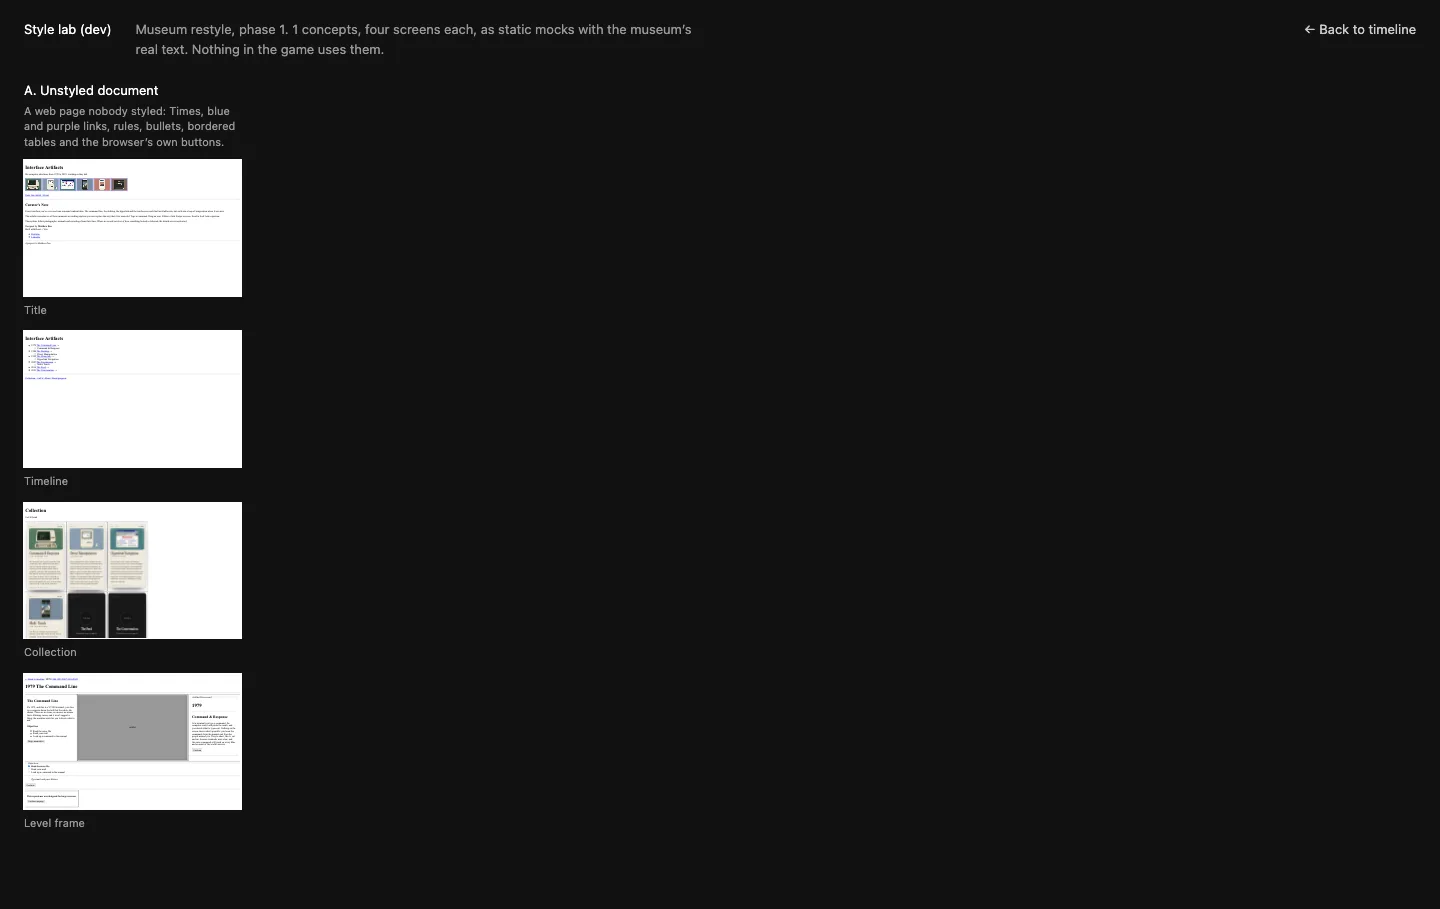
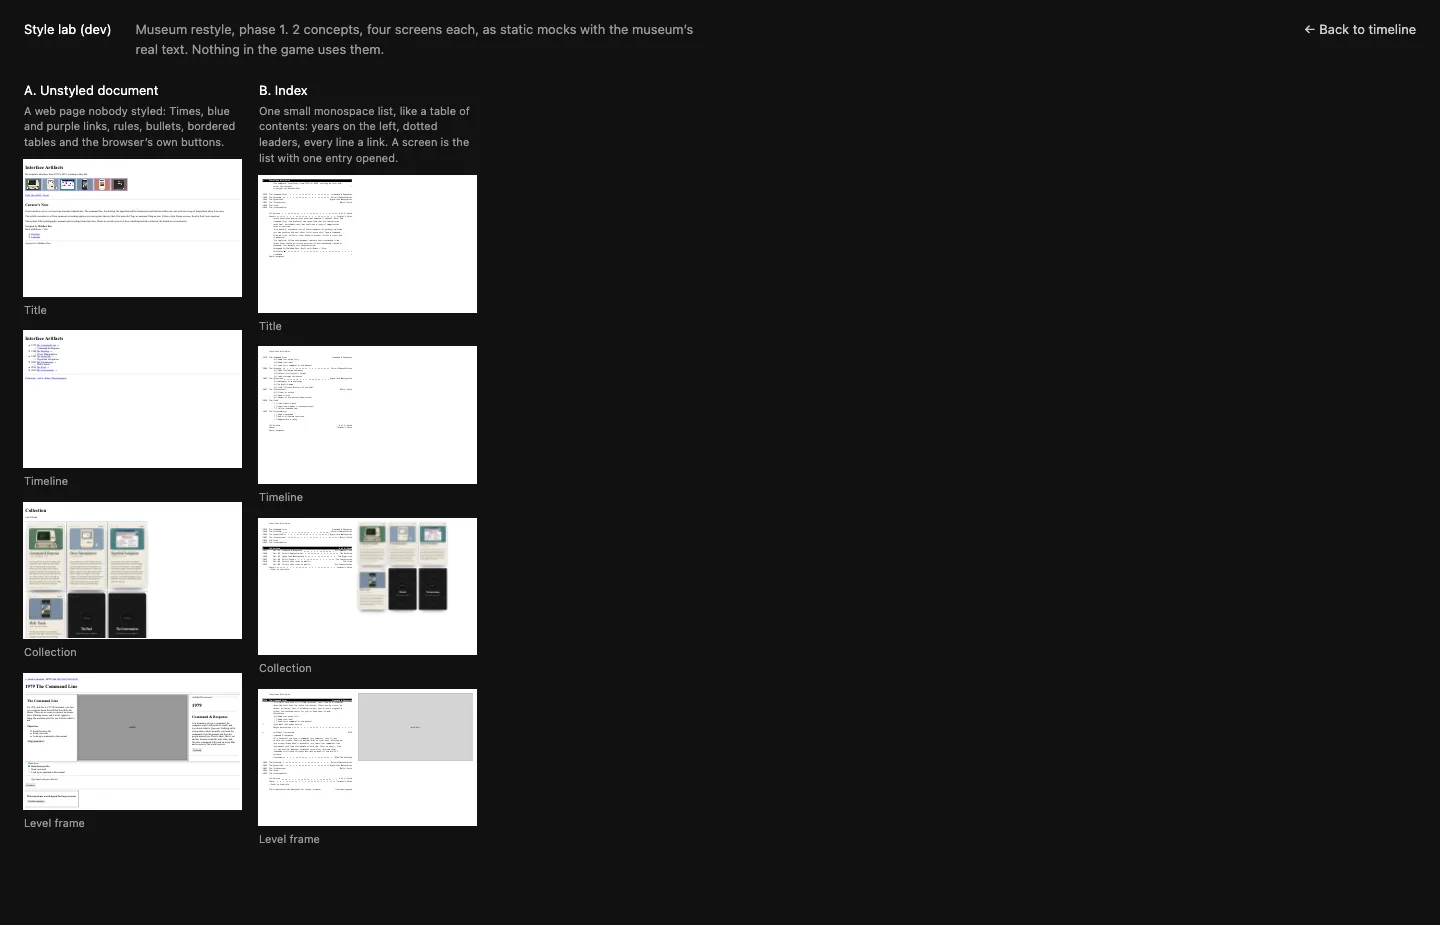
Style lab: concept B, index (one monospace list, entries open in place)

Changed region(s): [[0.0, 0.0924, 0.3438, 0.9241], [0.0938, 0.0308, 0.4688, 0.0616]]

diff --git a/src/pages/styleLab/B_Index.jsx b/src/pages/styleLab/B_Index.jsx
@@ -1,0 +1,139 @@
+// src/pages/styleLab/B_Index.jsx
+//
+// Concept B, "Index": the whole museum is one small monospace list, like a
+// table of contents. Years down the left, dotted leaders across, every line
+// a link. There are no pages: a "screen" is the same list with one entry
+// opened in place. The only rectangles are the artifact and the cards.
+import s from './B_Index.module.css'
+import { ROOMS, TITLE, ABOUT, WORDS, MOCK, isFound, foundLine, pad } from './content'
+import { CurrentCard } from './CurrentCard'
+
+// One line of the list: [mark or year] text ......... meta
+function Row({ mark = '', text, meta, href, onClick, current, sub, external }) {
+  const inner = (
+    <>
+      <span className={s.mark}>{mark}</span>
+      <span className={s.text}>{text}</span>
+      <span className={s.lead} aria-hidden="true" />
+      <span className={s.meta}>{meta}</span>
+    </>
+  )
+  const cls = `${s.row} ${sub ? s.sub : ''} ${current ? s.current : ''}`
+  if (onClick) return <button type="button" className={cls} onClick={onClick}>{inner}</button>
+  if (!href) return <div className={cls}>{inner}</div>
+  return (
+    <a className={cls} href={href} aria-current={current ? 'page' : undefined} {...(external ? { target: '_blank', rel: 'noopener noreferrer' } : {})}>
+      {inner}
+    </a>
+  )
+}
+
+const Note = ({ children, mark = '' }) => (
+  <div className={`${s.row} ${s.sub} ${s.note}`}>
+    <span className={s.mark}>{mark}</span>
+    <p className={s.noteText}>{children}</p>
+  </div>
+)
+
+function Standin({ room, className }) {
+  return (
+    <div className={`${s.standin} ${className}`} style={{ aspectRatio: `${room.frame[0]} / ${room.frame[1]}`, maxWidth: room.frame[0] }}>
+      artifact
+    </div>
+  )
+}
+
+function Cards({ art, go, className }) {
+  return (
+    <div className={`${s.cards} ${className}`}>
+      {ROOMS.map(r => <CurrentCard key={r.level} room={r} art={art} zoom={0.62} onOpen={() => go('level', r.level)} />)}
+    </div>
+  )
+}
+
+export default function Index({ screen, level, href, go, art }) {
+  const room = screen === 'level' ? ROOMS[level] : null
+  const next = room && ROOMS[room.level + 1]
+
+  return (
+    <div className={s.page}>
+      <div className={s.list}>
+        {/* ── The title ─────────────────────────────────────────── */}
+        <Row text={TITLE.name} href={href('title')} current={screen === 'title'} mark={screen === 'title' ? '>' : ''} />
+        {screen === 'title' && (
+          <>
+            <Note>{TITLE.subtitle}</Note>
+            <Row sub text={TITLE.enter} meta="→" href={href('timeline')} />
+            <Note>{TITLE.by}</Note>
+          </>
+        )}
+
+        {/* ── The six rooms ─────────────────────────────────────── */}
+        <div className={s.gap} />
+        {ROOMS.map(r => {
+          const open = room?.level === r.level
+          return (
+            <div key={r.level}>
+              <Row mark={r.year} text={r.title} meta={isFound(r.level) ? r.name : ''} href={href('level', r.level)} current={open} />
+              {screen === 'timeline' && r.objectives.map(o => (
+                <Row key={o} sub text={`${isFound(r.level) ? '[x]' : '[ ]'} ${o}`} href={href('level', r.level)} />
+              ))}
+              {open && (
+                <>
+                  <Note>{r.intro}</Note>
+                  <Standin room={r} className={s.inline} />
+                  <Row sub text={WORDS.objectives} />
+                  {r.objectives.map((o, i) => (
+                    <Row key={o} sub text={`${MOCK.done.includes(i) ? '[x]' : '[ ]'} ${o}`} />
+                  ))}
+                  <Note mark="?"><i>{r.hints[MOCK.hintFor]}</i></Note>
+                  <Row sub text={WORDS.begin} meta="→" onClick={() => {}} />
+                  <div className={s.gap} />
+                  <Row sub mark="*" text={WORDS.discovered} meta={r.year} />
+                  <Row sub text={r.name} />
+                  <Note>{r.description}</Note>
+                  <Row sub text={WORDS.cont} meta={next ? `${next.year} ${next.title}` : WORDS.backPlain} href={next ? href('level', next.level) : href('timeline')} />
+                  <div className={s.gap} />
+                </>
+              )}
+            </div>
+          )
+        })}
+
+        {/* ── Collection, About and the rest ────────────────────── */}
+        <div className={s.gap} />
+        <Row text={WORDS.collection} meta={foundLine} href={href('collection')} current={screen === 'collection'} mark={screen === 'collection' ? '>' : ''} />
+        {screen === 'collection' && (
+          <>
+            {ROOMS.map(r => (
+              <Row key={r.level} sub mark={r.year} text={`No. ${pad(r.level + 1)}  ${isFound(r.level) ? r.name : WORDS.unfound}`} meta={r.title} href={href('level', r.level)} />
+            ))}
+            <Cards art={art} go={go} className={s.inline} />
+          </>
+        )}
+        <Row text={TITLE.about} meta={ABOUT.label} href={href('title')} />
+        {screen === 'title' && (
+          <>
+            {ABOUT.paragraphs.map(p => <Note key={p}>{p}</Note>)}
+            <Note>{ABOUT.designedBy} {ABOUT.name}. {ABOUT.built}</Note>
+            {ABOUT.links.map(l => <Row key={l.label} sub text={l.label} meta="↗" href={l.href} external />)}
+          </>
+        )}
+        {(screen === 'timeline' || screen === 'title') && <Row text={WORDS.reset} onClick={() => {}} />}
+        {(screen === 'collection' || screen === 'level') && <Row text={WORDS.back} href={href('timeline')} />}
+        {screen === 'level' && (
+          <>
+            <div className={s.gap} />
+            <Row text={WORDS.smallScreen} meta={WORDS.smallScreenGo} onClick={() => {}} />
+          </>
+        )}
+      </div>
+
+      {/* The right-hand side: nothing, the artifact, or the cards */}
+      <div className={s.plate}>
+        {room && <Standin room={room} className={s.wide} />}
+        {screen === 'collection' && <Cards art={art} go={go} className={s.wide} />}
+      </div>
+    </div>
+  )
+}

diff --git a/src/pages/styleLab/B_Index.module.css b/src/pages/styleLab/B_Index.module.css
@@ -1,0 +1,91 @@
+/* src/pages/styleLab/B_Index.module.css
+ * Concept B, "Index": one size of monospace, black on white, no boxes and
+ * no rules. Hierarchy is the indent; emphasis is a row turning black. */
+
+.page {
+  box-sizing: border-box;
+  min-height: 100cqh;
+  padding: 22px 24px 64px;
+  display: grid;
+  grid-template-columns: minmax(0, 82ch) minmax(0, 1fr);
+  gap: 0 6ch;
+  align-items: start;
+  background: #fff;
+  color: #000;
+  font: 12px/18px ui-monospace, Menlo, Monaco, 'Courier New', monospace;
+  --lab-focus: #000;
+}
+
+.list { min-width: 0; }
+.gap { height: 18px; }
+
+/* ── A line ─────────────────────────────────────────────────────────── */
+.row {
+  display: grid;
+  grid-template-columns: 6ch auto minmax(2ch, 1fr) auto;
+  width: 100%;
+  padding: 0;
+  border: none;
+  background: none;
+  color: inherit;
+  font: inherit;
+  text-align: left;
+  text-decoration: none;
+  cursor: default;
+}
+a.row, button.row { cursor: pointer; }
+.sub .text, .sub .noteText { padding-left: 4ch; }
+.text { min-width: 0; white-space: pre-wrap; }
+.meta { text-align: right; }
+.lead {
+  height: 12px;
+  margin: 0 1ch;
+  border-bottom: 1px dotted currentColor;
+}
+/* No leader to nowhere */
+.meta:empty { display: none; }
+.row:has(.meta:empty) .lead { visibility: hidden; }
+
+a.row:hover, button.row:hover, .current { background: #000; color: #fff; }
+a.row:focus-visible, button.row:focus-visible { outline: 2px solid #000; outline-offset: 2px; background: #000; color: #fff; }
+
+.note { grid-template-columns: 6ch minmax(0, 1fr); }
+.noteText { max-width: 68ch; margin: 0; }
+
+/* ── The artifact and the cards ─────────────────────────────────────── */
+.plate { position: sticky; top: 22px; min-width: 0; }
+.standin {
+  width: 100%;
+  max-height: calc(100cqh - 44px);
+  display: flex;
+  align-items: center;
+  justify-content: center;
+  border: 1px solid #000;
+  background: #d4d4d4;
+}
+.cards { display: grid; grid-template-columns: repeat(3, max-content); gap: 18px 2ch; }
+.inline { display: none; }
+
+/* Narrower than the list and the artifact side by side: one column, and
+   the artifact and the cards sit in the list where their entry opens */
+@container lab (max-width: 1100px) {
+  .page { grid-template-columns: minmax(0, 82ch); }
+  .plate { display: none; }
+  .inline { display: flex; margin: 18px 0 18px 6ch; width: auto; }
+  .cards.inline { display: grid; grid-template-columns: repeat(3, max-content); }
+}
+
+/* Phone width: no leaders; what was on the right goes under the line */
+@container lab (max-width: 600px) {
+  .page { padding: 16px 16px 48px; }
+  .row { display: flex; flex-wrap: wrap; }
+  .mark { flex: 0 0 5ch; }
+  .text { flex: 0 1 auto; max-width: calc(100% - 5ch); }
+  .note { display: grid; grid-template-columns: 5ch minmax(0, 1fr); }
+  .lead { display: none; }
+  /* What was on the right stays on the line if it fits, or drops under it */
+  .meta { margin-left: auto; padding-left: 2ch; }
+  .sub .text, .sub .noteText { padding-left: 2ch; }
+  .inline { margin-left: 0; }
+  .cards.inline { grid-template-columns: repeat(2, max-content); gap: 12px; }
+}

diff --git a/src/pages/styleLab/concepts.js b/src/pages/styleLab/concepts.js
@@ -2,6 +2,7 @@
 // The lab's concepts, in the order of the backlog's directions, and the
 // four screens each one draws.
 import Document from './A_Document'
+import Index from './B_Index'
 
 export const SCREENS = [
   { id: 'title', label: 'Title' },
@@ -17,5 +18,12 @@ export const CONCEPTS = [
     name: 'Unstyled document',
     blurb: 'A web page nobody styled: Times, blue and purple links, rules, bullets, bordered tables and the browser’s own buttons.',
     Component: Document,
+  },
+  {
+    id: 'b',
+    letter: 'B',
+    name: 'Index',
+    blurb: 'One small monospace list, like a table of contents: years on the left, dotted leaders, every line a link. A screen is the list with one entry opened.',
+    Component: Index,
   },
 ]
